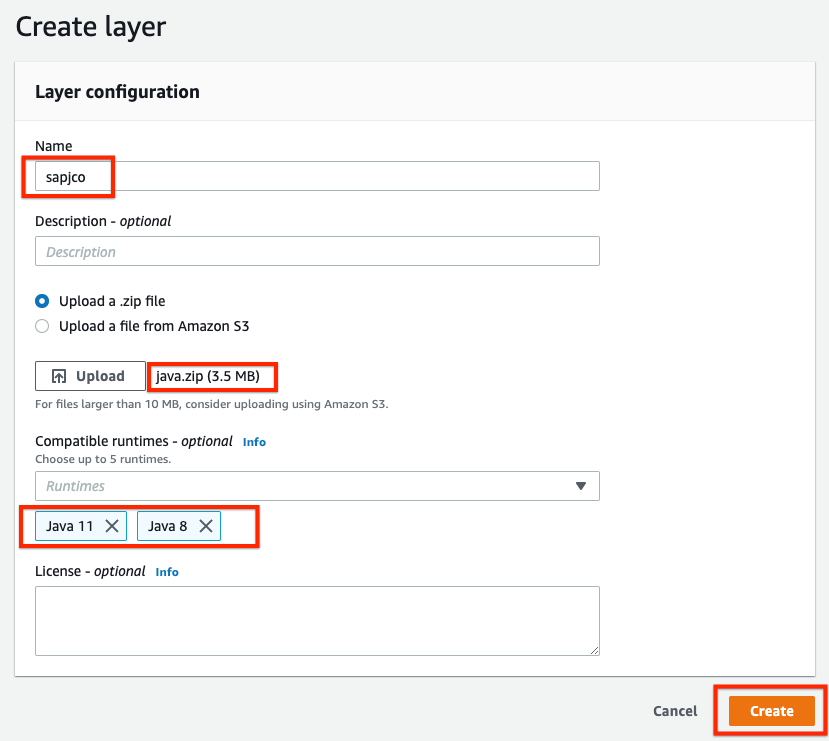
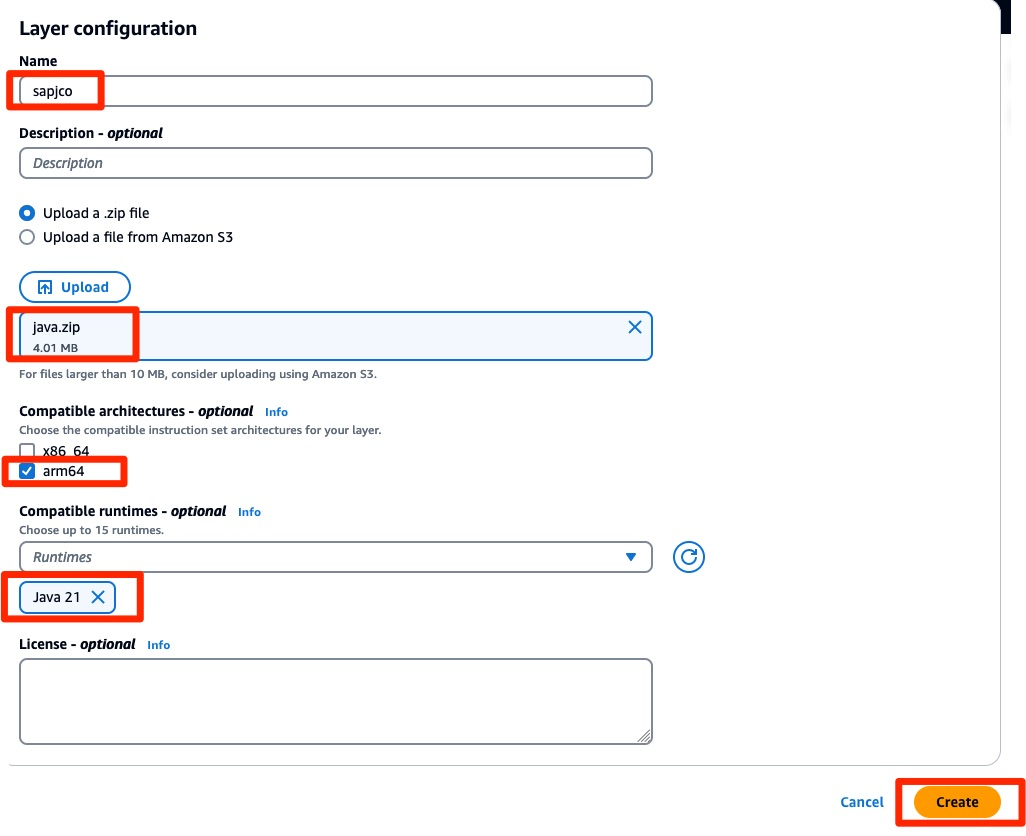
update

Changed region(s): [[0.0, 0.0, 1.0, 1.0], [0.965, 0.0, 0.9952, 0.0621]]

diff --git a/docs/Setting_it_up.md b/docs/Setting_it_up.md
@@ -12,9 +12,9 @@ Please refer to the [step-by-step guide](Create_AWS_Lambda_layer_for_SAP_Jco.md)
 
 ## Step 3: Deploy the solution (AWS Console)
 
-For most AWS Regions, you can easily deploy the solution with the [AWS Serverless Application Repository](https://eu-central-1.console.aws.amazon.com/serverlessrepo/home?region=eu-central-1#/available-applications) by searching for **sap-monitor**. Make sure to tick **Show apps that create custom IAM roles**.
+For most AWS Regions, you can easily deploy the solution via the [AWS Serverless Application Repository](https://console.aws.amazon.com/serverlessrepo/home#/available-applications). Simply search for **sap-monitor**. Make sure to tick **Show apps that create custom IAM roles**.
 
-If this is not working in your region, please deploy it via [CloudFormation](Deploy_Manually.md) instead.
+For all others regions, please deploy it via [CloudFormation](Deploy_Manually.md) instead.
   
 ![CWAlarm](../assets/sar.png)
 

diff --git a/docs/Create_AWS_Lambda_layer_for_SAP_Jco.md b/docs/Create_AWS_Lambda_layer_for_SAP_Jco.md
@@ -3,7 +3,7 @@
 **Note:** This activity has to be done **once** only, regardless of any subsequent deployments.
 
 Download the latest [SAP Java Connector](https://support.sap.com/en/product/connectors/jco.html) (**>= 3.1.5**) to your local disk.
-Make sure to select Linux for Intel, 64 bit!
+Make sure to select **Linux for AArch64 compatible processors** 64-bit!
 
 ![SAPDownload](../assets/ly0.png)
 
@@ -23,7 +23,7 @@ Go to the AWS console of your AWS target region. Navigate to AWS Lambda – Laye
 
 ![Imgur](../assets/ly4.png)
 
-As Name choose “**sapjco**” (mandatory) and select your recently created .zip file. Also tick Java 8 & 11 as runtimes:
+As Name choose “**sapjco**” (mandatory) and select your recently created .zip file. Also tick Java 21 as runtime:
 
 ![Imgur](../assets/ly5.png)
 

diff --git a/README.md b/README.md
@@ -73,6 +73,12 @@ The resulting dashboards can look as follows
 
 ## Changelog
 
+1.08
+
+- Java 21
+- Latest AWS SDK
+- ARM64 (!)
+
 1.07
 
 - New Parameter /SDF/SMON_FREQUENCY -> Allows to increase collector frequency, Default = Min = 30 seconds
